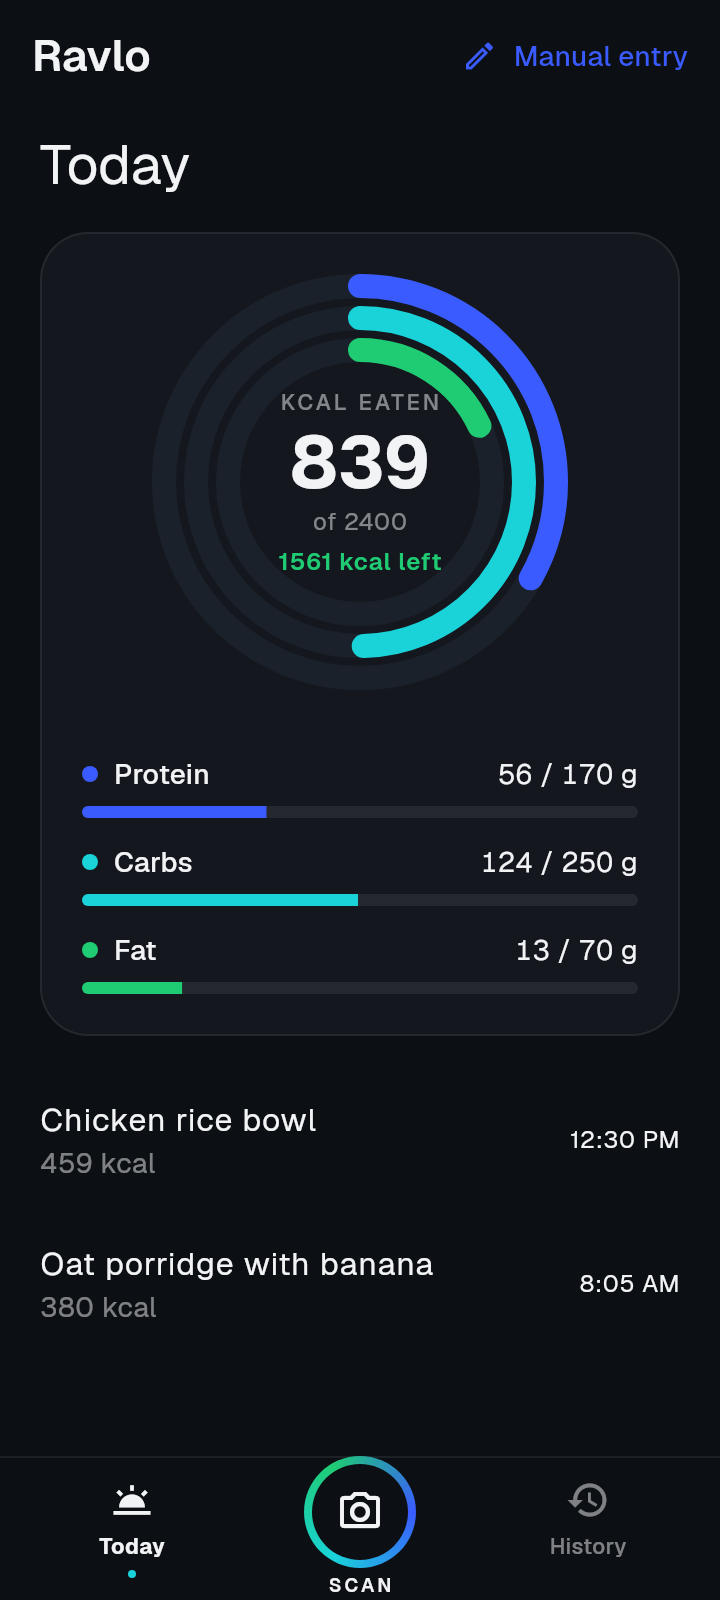
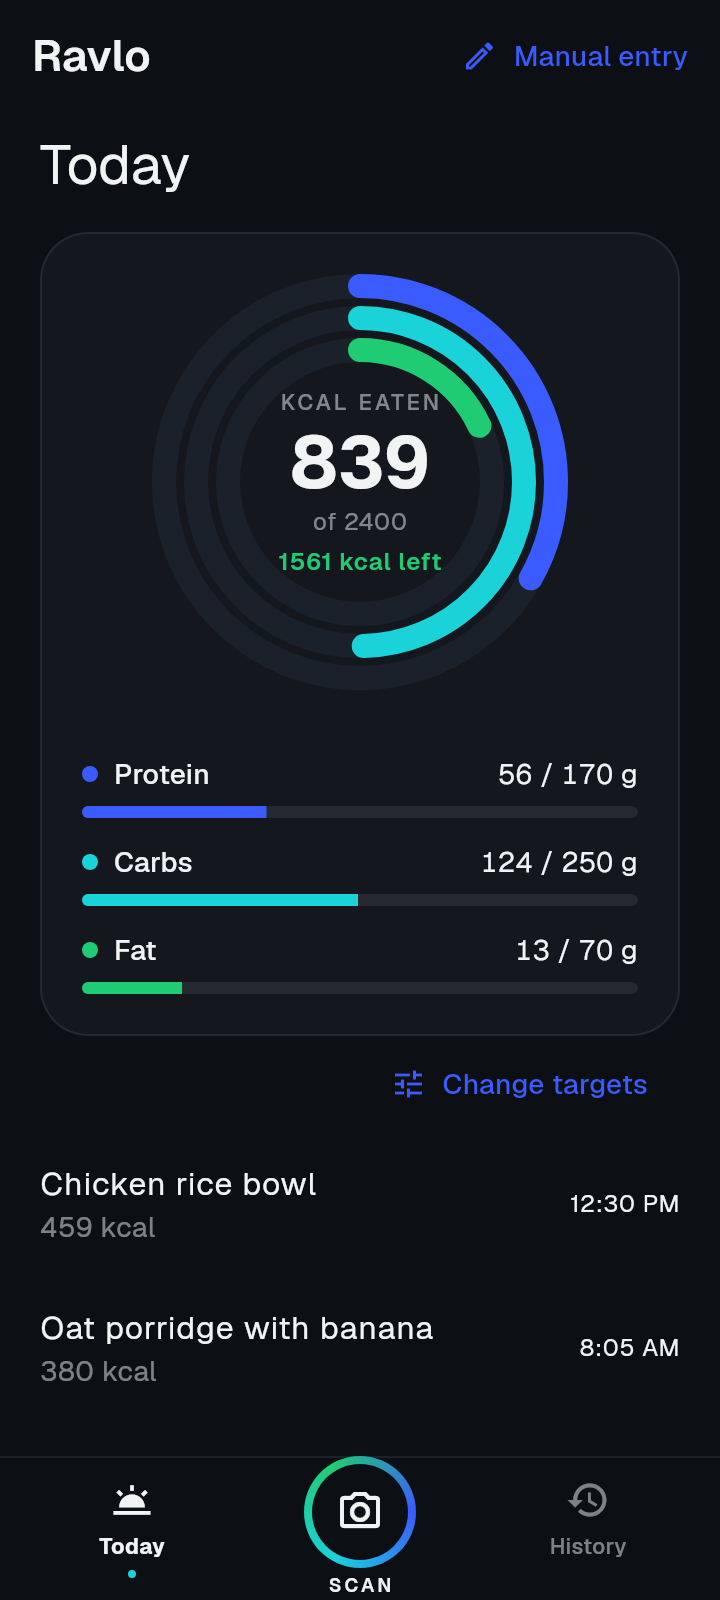
Record the editable targets in the Tier1 handover so the next step is clear

diff --git a/docs/UI_REVIEW_AND_HANDOVER_2026-11-14.md b/docs/UI_REVIEW_AND_HANDOVER_2026-11-14.md
@@ -86,7 +86,8 @@ an Edit button. (d) is DONE in `bff13cb` (owner said yes): a summary card (name,
 - Tier1 takes the design's ring and navigation. Three tabs: Today (ring from `lib/shared/widgets/macro_ring.dart`
   against `AppConstants.default*Target`, macro bars, today's meals), Scan in the middle (still the landing
   screen; a second tap on it takes the photo), History. `Manual entry` moved to the app bar. Renders: `12-today`.
-  NEXT: a Goals screen so the targets are the user's, then the design's Goals and AI tabs.
+  `Change targets` on Today opens a sheet (`lib/features/tier1/targets.dart`, saved to `tier1/targets.json`; render `13-targets`).
+  NEXT: the design's Goals and AI tabs, if the owner wants them in Tier1.
 - A logged meal counts as eaten; "Ate half" is the exception ("190 of 380 kcal eaten"). The word "served" is gone
   from the UI. Stored data is unchanged (`consumedFraction == null` now reads as "all").
 - A saved, unchanged meal closes with an outlined `Done`; `Save meal` shows only with the form.
